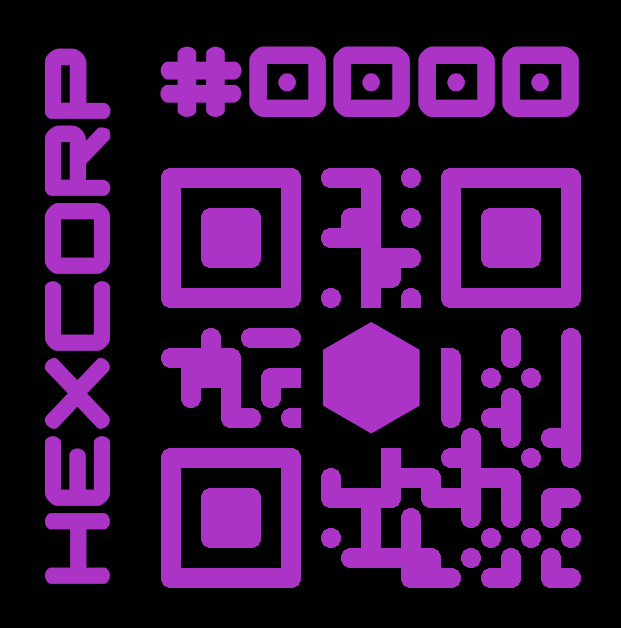
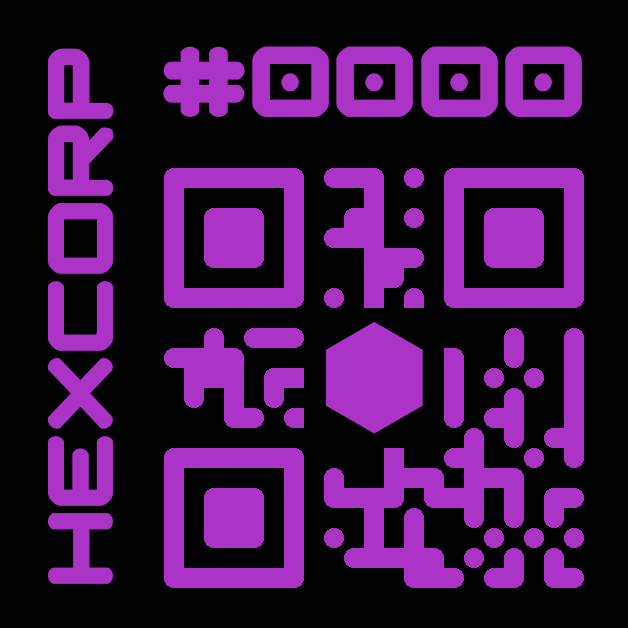
added square option

diff --git a/DroneTools.py b/DroneTools.py
@@ -79,6 +79,7 @@ class DroneTag():
         id_margin = drone_data.get("id_margin", 75)
         title_size = drone_data.get("title_size", None)
         title_margin = drone_data.get("title_margin", 70)
+        square = drone_data.get("square", True)
         text = drone_data.get("drone_id", "")
         side_text = drone_data.get("title", "")
         barcode = self.drone_data.get("barcode", False)
@@ -129,6 +130,16 @@ class DroneTag():
             draw.text((text_x, 20), text, fill=front_color, font=font)
             new_img.paste(qr_img, (0, text_height + padding))
             new_img = new_img.rotate(90, expand=True)
+
+        if square:
+            long_size = max(new_img.width, new_img.height)
+            short_size =min(new_img.width, new_img.height)
+            squared_img = Image.new("RGB", (long_size, long_size), back_color)
+            if new_img.width > new_img.height:
+                squared_img.paste(new_img, (0,(long_size - short_size)//2))
+            else:
+                squared_img.paste(new_img, ((long_size - short_size)//2, 0))
+            new_img = squared_img
 
         self.drone_tag = new_img
         return new_img
@@ -227,6 +238,7 @@ if __name__ == "__main__":
             "drone_id": "U992",
             "barcode": True,
             "font_path": "./assets/font2.otf",
+            "square": True,
             "title": "Drone",
             "front_color": "#FF8C00",
         },
